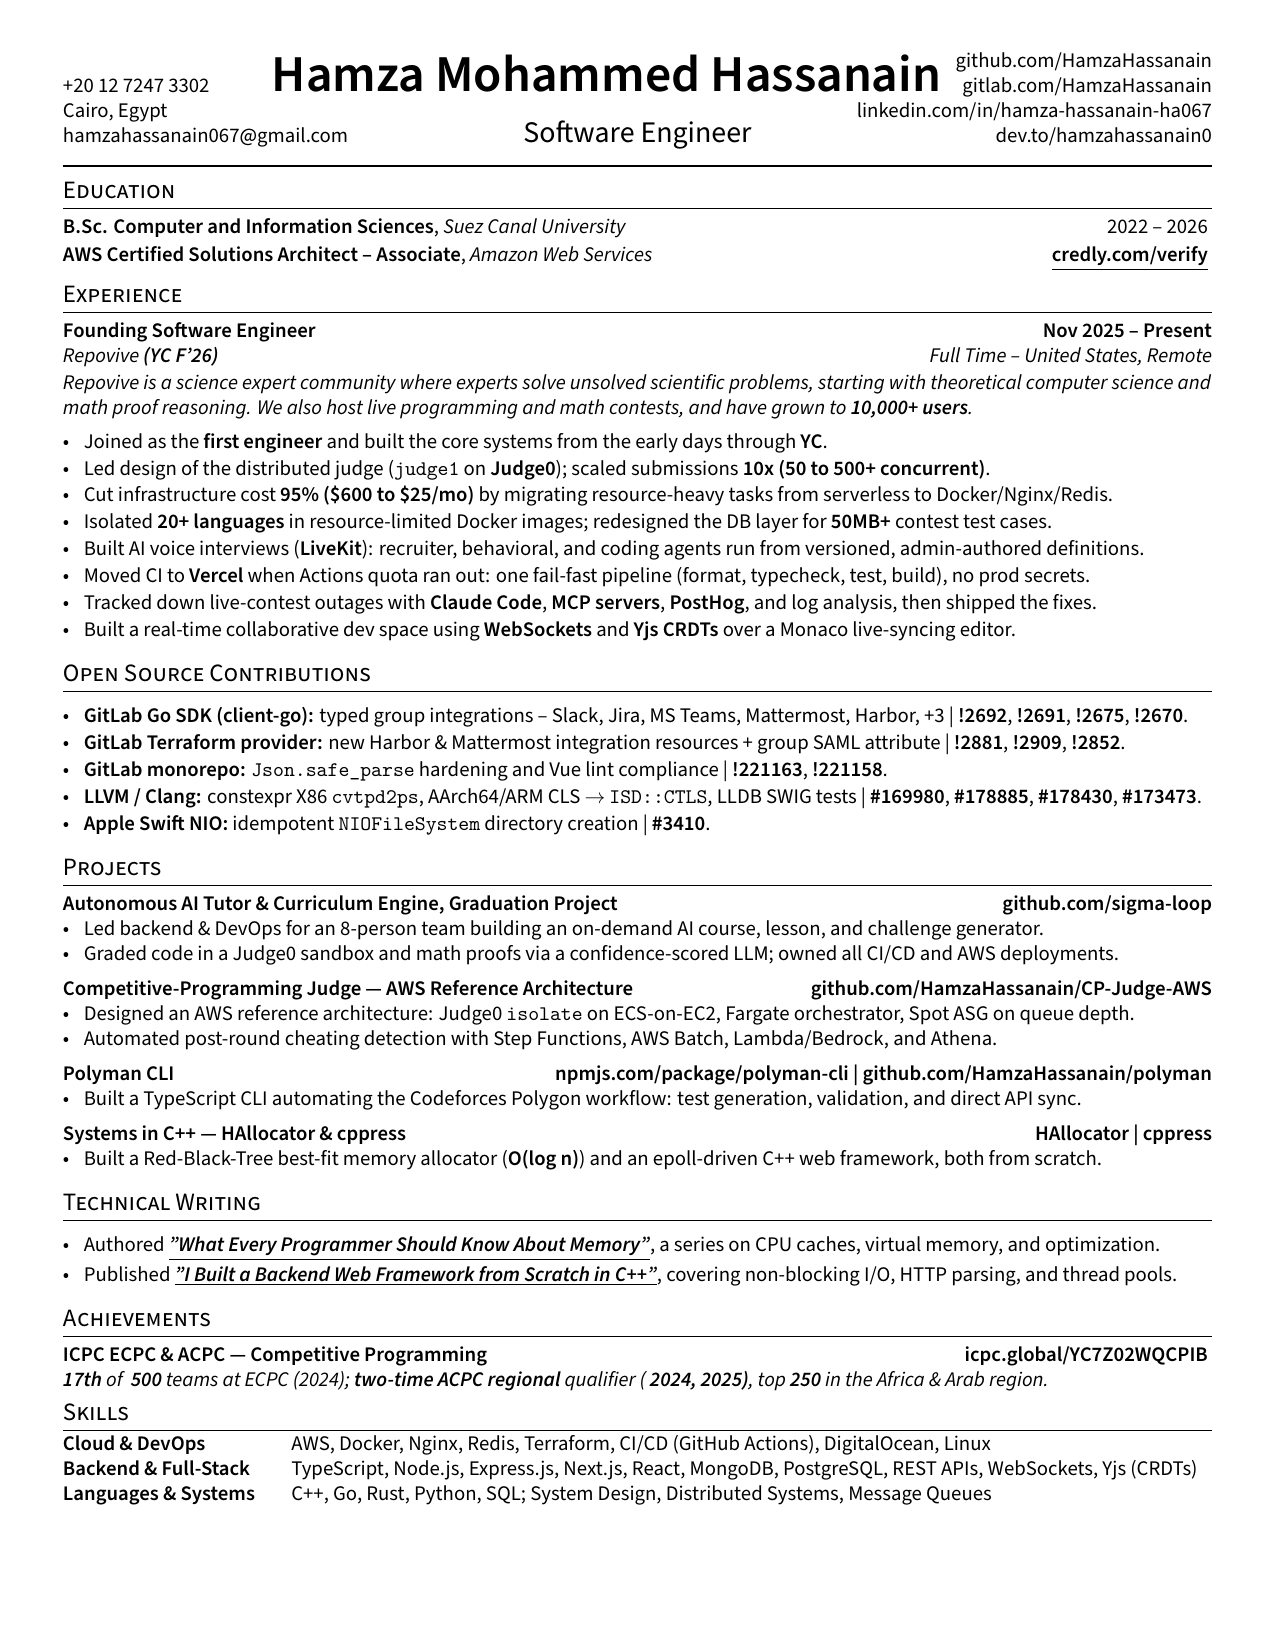
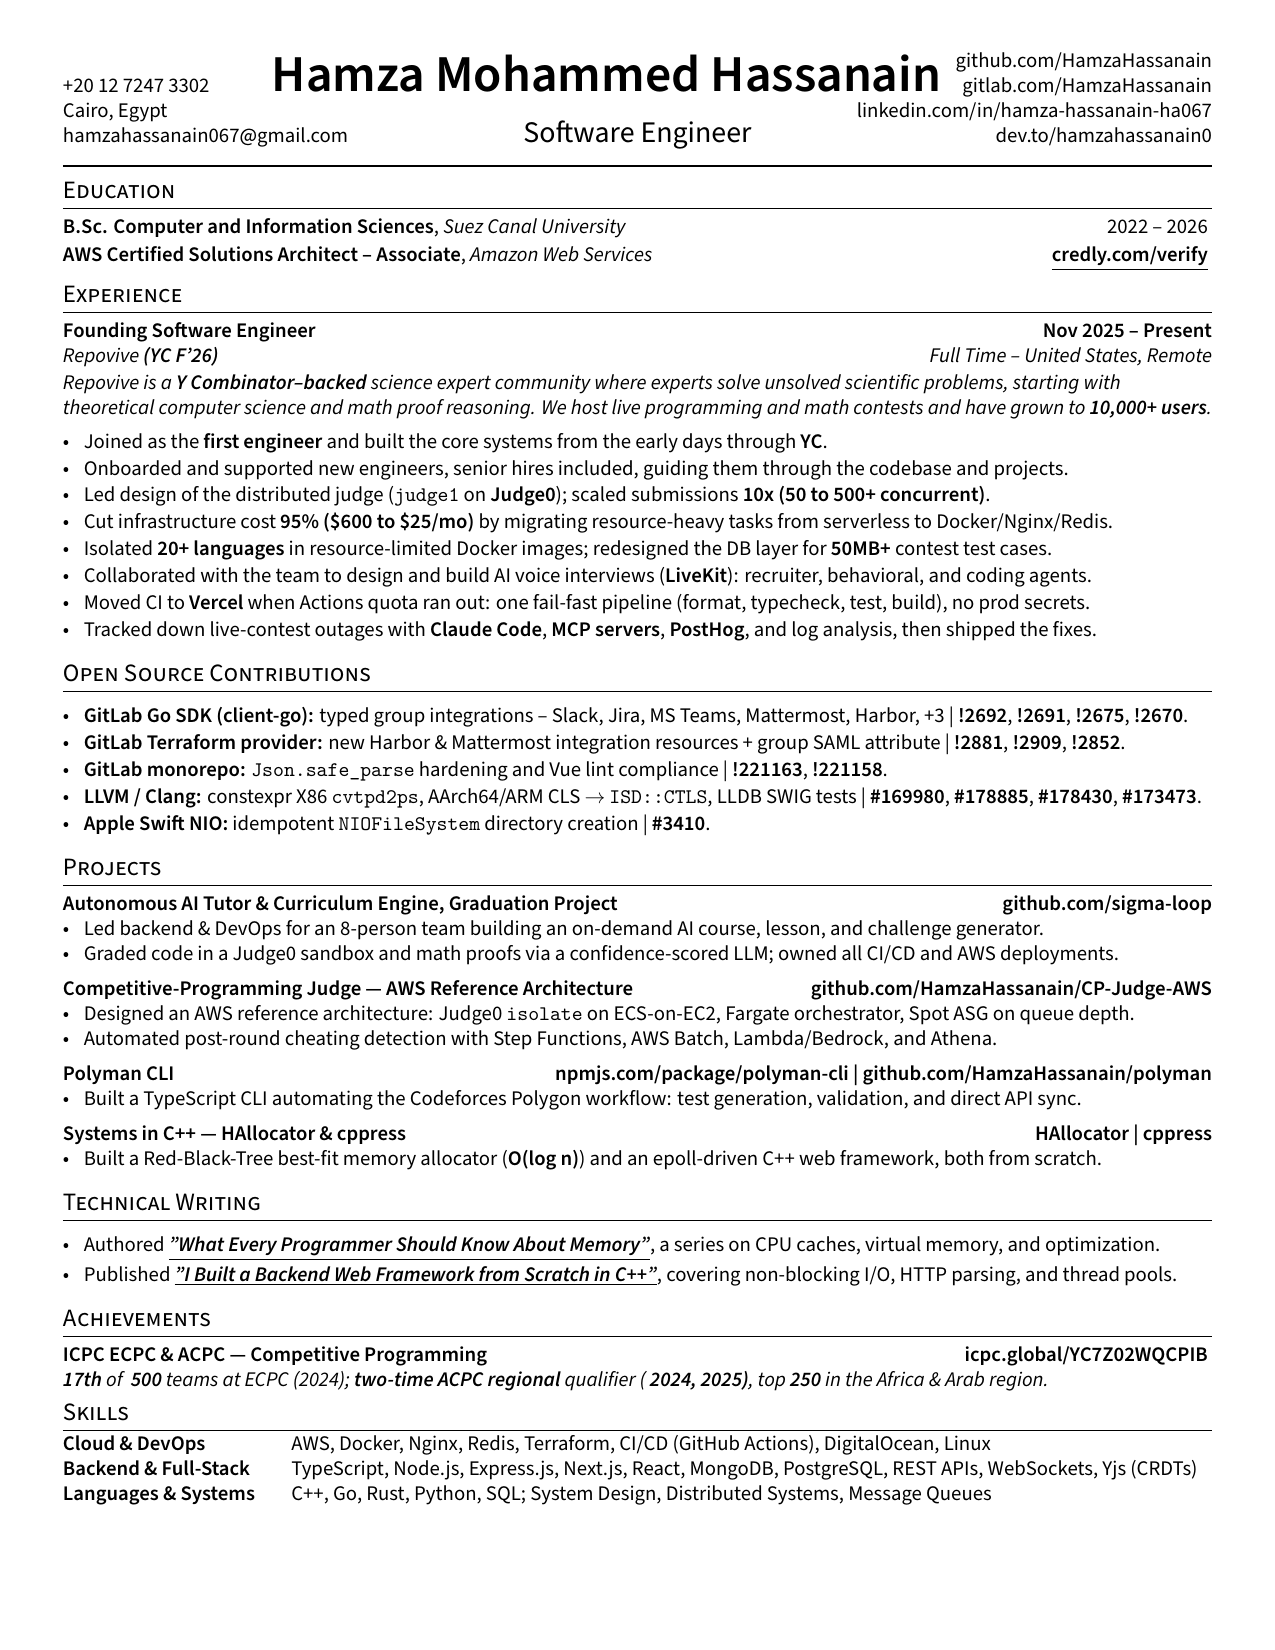
Repovive: YC-backed company intro, team credit on AI interviews, onboarding bullet; drop collab space
The intro now says Repovive is Y Combinator-backed. The AI voice interview
bullet credits the team, since design and build were shared. A new bullet
covers onboarding and supporting new engineers, senior hires included. The
collaborative dev space bullet is dropped as low signal.

Changed region(s): [[0.0612, 0.2164, 0.9482, 0.4018]]

diff --git a/sections/experience.tex b/sections/experience.tex
@@ -4,7 +4,7 @@
 
 \vspace{3mm}
 
-\textit{Repovive is a science expert community where experts solve unsolved scientific problems, starting with theoretical computer science and math proof reasoning. We also host live programming and math contests, and have grown to \textbf{10,000+ users}.}
+\textit{Repovive is a \textbf{Y Combinator--backed} science expert community where experts solve unsolved scientific problems, starting with theoretical computer science and math proof reasoning. We host live programming and math contests and have grown to \textbf{10,000+ users}.}
 
 \vspace{-2mm}
 
@@ -14,18 +14,18 @@
 
   \item Joined as the \textbf{first engineer} and built the core systems from the early days through \textbf{YC}. %
 
+  \item Onboarded and supported new engineers, senior hires included, guiding them through the codebase and projects. %
+
   \item Led design of the distributed judge (\texttt{judge1} on \textbf{Judge0}); scaled submissions \textbf{10x (50 to 500+ concurrent)}. %
 
   \item Cut infrastructure cost \textbf{95\% (\$600 to \$25/mo)} by migrating resource-heavy tasks from serverless to Docker/Nginx/Redis. %
 
   \item Isolated \textbf{20+ languages} in resource-limited Docker images; redesigned the DB layer for \textbf{50MB+} contest test cases. %
 
-  \item Built AI voice interviews (\textbf{LiveKit}): recruiter, behavioral, and coding agents run from versioned, admin-authored definitions. %
+  \item Collaborated with the team to design and build AI voice interviews (\textbf{LiveKit}): recruiter, behavioral, and coding agents. %
 
   \item Moved CI to \textbf{Vercel} when Actions quota ran out: one fail-fast pipeline (format, typecheck, test, build), no prod secrets. %
 
   \item Tracked down live-contest outages with \textbf{Claude Code}, \textbf{MCP servers}, \textbf{PostHog}, and log analysis, then shipped the fixes. %
-
-  \item Built a real-time collaborative dev space using \textbf{WebSockets} and \textbf{Yjs CRDTs} over a Monaco live-syncing editor. %
 
 \end{zitemize}
